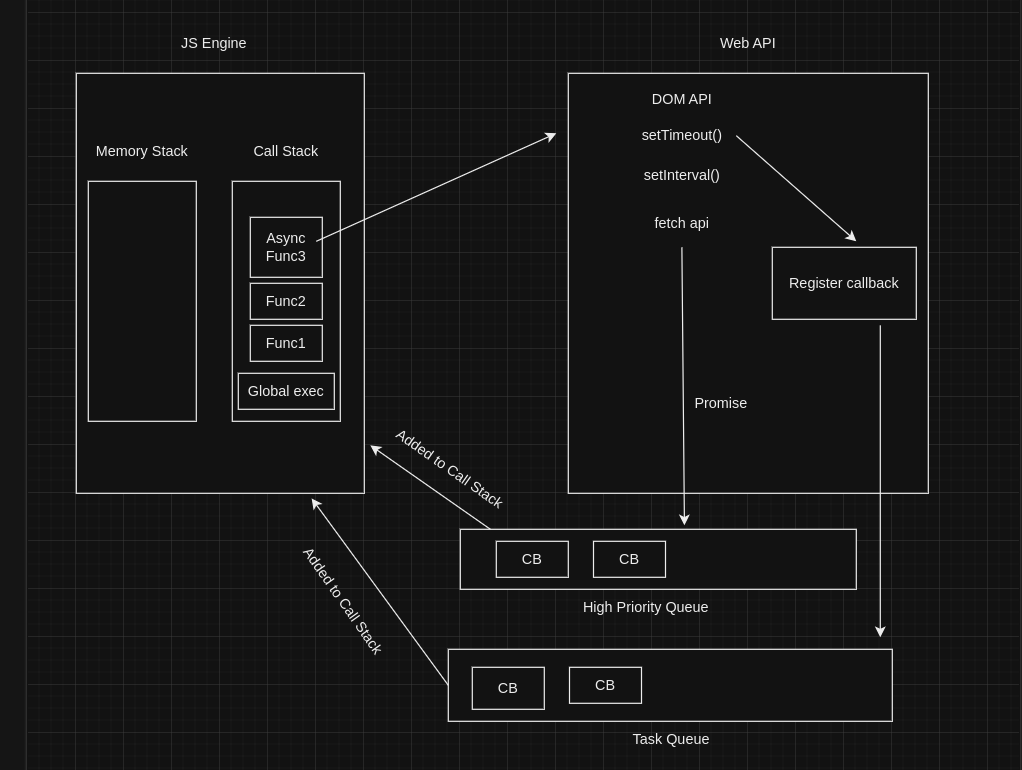
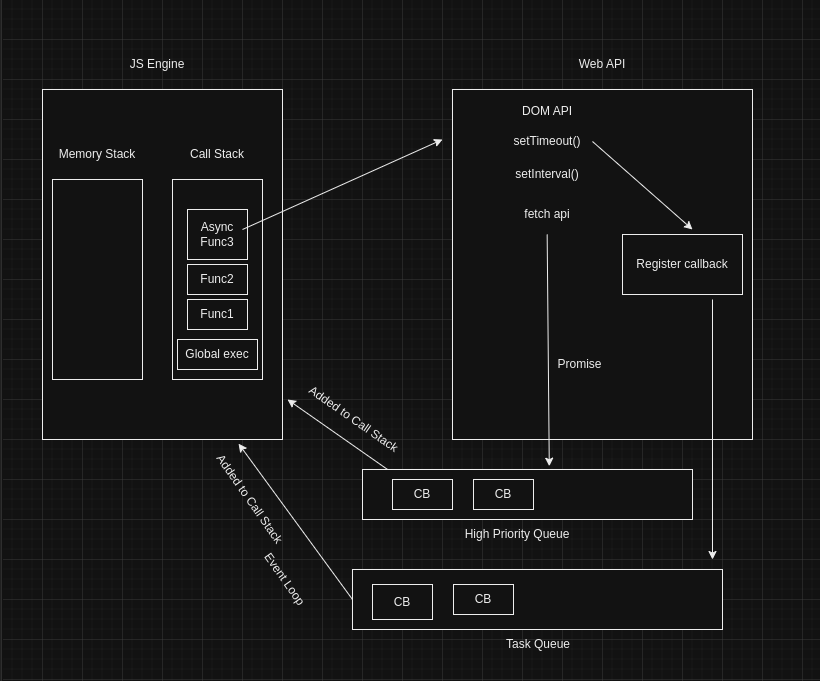
promises and async/await

diff --git a/chai_and_code/PromisesAsyncAwait.js b/chai_and_code/PromisesAsyncAwait.js
@@ -1,0 +1,70 @@
+// Promise are basically async code, it represent eventual completion or failure of an async task.
+// Promise has three stages -
+// 1. Pending
+// 2. fulfilled
+// 3. Rejected
+// Promise are executed in two phases, creation phase and consumption phase.
+
+// Promise Creation
+// here resolve is linked with .then, and
+// reject is linked with .catch
+const promiseOne = new Promise((resolve, reject) => {
+  //do an async task
+  setTimeout(() => {
+    let error = false;
+    if (!error) {
+      // we can pass data to our than using resolve
+      resolve({ username: "Anushrey" });
+    } else {
+      // we can pass data to our catch using reject
+      reject("Something went wrong");
+    }
+  }, 1000);
+});
+
+// Promise Consumption
+// we can get data sent by resolve in parametere of .then, and
+// data sent by reject in parametere of .catch.
+promiseOne
+  .then((user) => {
+    console.log(user);
+  })
+  .catch((err) => {
+    console.log(err);
+  })
+  // .finally() - It will run every time irrespective of your resolve or reject.
+  .finally(() => {
+    console.log("Finally task done");
+  });
+
+// -------------------------------------------------------------------------------------
+// Handling Promise with Async and Await
+// It is same as .then and .catch but handle error in more good way
+// NOTE - they can't handle on their own, 
+  // we need to wrap them in try catch block.
+
+const promiseTwo = new Promise((resolve, reject) => {
+  setTimeout(() => {
+    let error = true;
+    if (!error) {
+      resolve({ username: "Anu" });
+    } else {
+      reject("Something went wrong, Promise two");
+    }
+  }, 1000);
+});
+
+// when our function gets async keyword,
+// we can use await keyword inside that function
+// NOTE - they can't handle on their own, 
+  // we need to wrap them in try catch block.
+async function consumePromiseTwo() {
+  try {
+    const response = await promiseTwo;
+    console.log(response);
+  } catch (error) {
+    console.log(error);
+  }
+}
+
+consumePromiseTwo();

diff --git a/index.html b/index.html
@@ -20,6 +20,6 @@
     </style>
   </head>
   <body>
-    <script src="ArrayMethods.js"></script>
+    <script src="./chai_and_code/PromisesAsyncAwait.js"></script>
   </body>
 </html>

diff --git a/chai_and_code/AsyncProcess/AsyncProcess.md b/chai_and_code/AsyncProcess/AsyncProcess.md
@@ -13,10 +13,14 @@ Now, assume we have a setTimeout() call of 2 sec,
 2. than, its goes to Register callback.
 3. Register callback holds all the events when when these all task are to be done, like in 2 sec, 2 min or so on
 4. Now, Task Queue comes into picture. After the program is done in Registar callback and we got the result. We need to put that program back into call stack to get executed na, so Task Queue do this.
-5. Task Queue holds all the finishes Async program to insert them back into Call Stack
+5. Task Queue holds all the finishes Async programs.
+6. Than, Event loop is a thing, that keeps on looking waether tha task is completed in the task queue and is ready to go into call stack or not, if it is ready, so it insert them back into Call Stack
 
 NOTE - 
 Now, some new things are added in JS.
 Like if we do a fetch in JS, and use a promise there.
-There we get a High Priority Task Queue.
+There we get a High Priority Task Queue/Micro Task Queue.
 Basically it is same as Task Queue but with some high priority.
+
+NOTE - 
+If we made a fetch request, and its task is done. Than it is pushed to Micro Task Queue, and this task will be given the high priority as compared to all the task present in the Tast Queue.

diff --git a/chai_and_code/Fetch/FetchProcess.md b/chai_and_code/Fetch/FetchProcess.md
@@ -1,0 +1,17 @@
+When we make a fetch request, it gets executed in two pahse.
+1. Memory allocation to the suppose varibale, we call it data.
+We cannot directly aceess this variable.
+In this variable, there are 2 arrays,- 
+onFulfilled [], and
+onRegection [].
+These 2 arrays, which contains function inside them are also private and we cannot access them
+
+If promise gets resolved the results get into onFulfilled[] array and if it gets rejected, result get into onRegection[].
+
+2. Web browser/node API - 
+From here network request goes, we cannot make it directly so browser or node helps in it.
+Now, if network request is fired. So we will get results or not.
+If we get result, it goes to onFulfilled[] array, and
+If we get an error, it goes to onRegection[] array.
+
+And than that varaible created in the memory takes result to our created varibaled and is diplayed to us.
